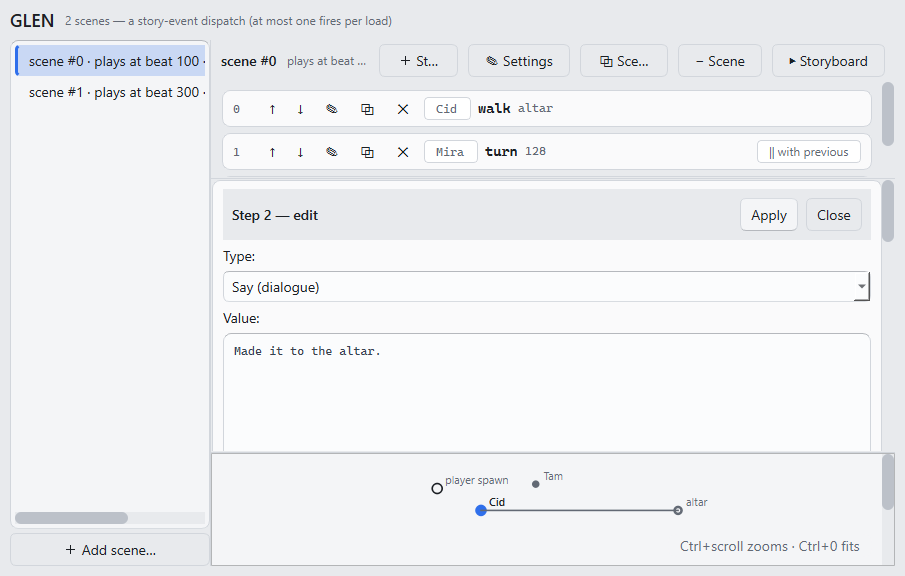
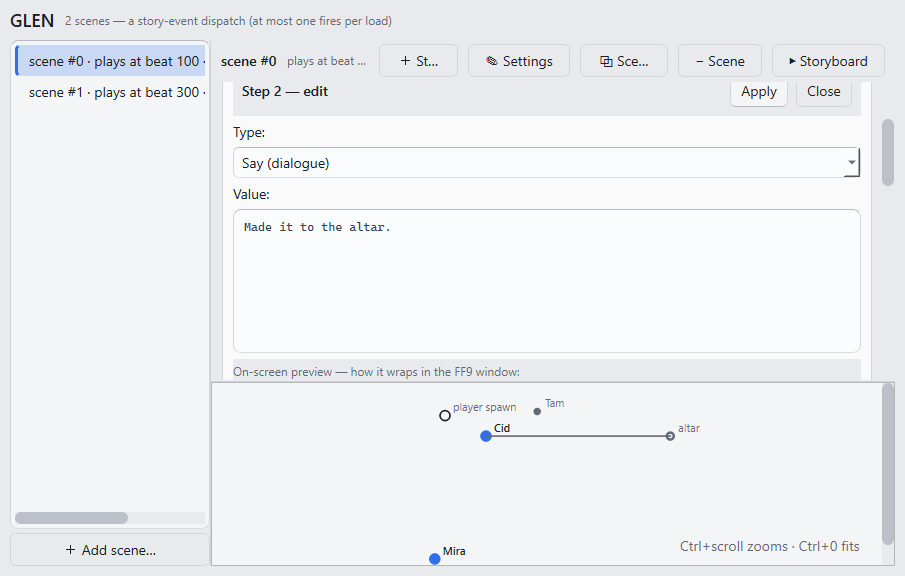
feat(cutscene-doc): THE ACCORDION -- the ladder is the one window (playtest feedback)
Mid-playtest feedback: settings + ladder + editor + stage stacked five bands and three
scrollbars in the center column. Now the ladder hosts THE accordion panel: the step editor
unfolds directly UNDER its row (and follows the typing point as Apply advances -- the
conversation stays visible around the line being written), the scene-settings card unfolds
above row 0, the two are mutually exclusive, and both scroll WITH the list -- one scrollbar.
The separate editor/settings bands and their wrapper scrolls are deleted; the vsplit is
ladder | canvas.

StepLadder gains set_inset/_lift_inset: a refill LIFTS the panel (hide-first, the
phantom-window law) instead of deleting it -- fenced by mutation, and the first cut of that
fence was VACUOUS until it delivered DeferredDelete (a deleteLater'd widget still answers
without the spin; the harness's own lesson, re-learned in miniature). Four accordion fences;
battery 174 green; figure re-baked from the gate lane, shots --check 20 exact.

diff --git a/ff9mapkit/ff9mapkit/workspace/cutscenedoc.py b/ff9mapkit/ff9mapkit/workspace/cutscenedoc.py
@@ -511,7 +511,30 @@ class StepLadder(QWidget):
         self._idx_chips = []                       # the storyboard's ▶ beat sweep writes these
         self._selected = None
         self._beat_marks = set()
+        self._inset = None                         # THE ACCORDION: one foreign panel unfolded
+        #                                            inside the ladder (the step editor under its
+        #                                            row / the settings above row 0). The ladder
+        #                                            HOSTS it, never owns it -- see set_inset.
         self.setAccessibleName("Cutscene steps")
+
+    # -- the accordion seam (playtest feedback: separate bands cluttered the column) --
+    def set_inset(self, widget, at=0):
+        """Unfold ONE host-owned panel inside the ladder at layout index ``at`` (row *i*'s
+        editor sits at ``i + 1``; the settings card at ``0``). The host re-insets after every
+        ``set_rows`` -- the ladder LIFTS the inset there instead of deleting it, because the
+        panel (the one StepEditor instance) must outlive every refill."""
+        self._lift_inset()
+        self._inset = widget
+        self._lay.insertWidget(max(0, min(at, self._lay.count() - 1)), widget)
+        widget.show()
+
+    def _lift_inset(self):
+        """Take the inset OUT without killing it. Hide FIRST, then reparent: a visible widget
+        reparented to None is a top-level OS window for an instant (the phantom-window law)."""
+        if self._inset is not None:
+            self._inset.hide()
+            self._inset.setParent(None)
+            self._inset = None
 
     def set_beat_marks(self, idxs):
         """Mark the steps in the storyboard's ACTIVE beat. Shape, not colour: ▶ on the
@@ -530,6 +553,7 @@ class StepLadder(QWidget):
     def set_rows(self, rows, selected=None):
         self._selected = selected
         self._idx_chips = []
+        self._lift_inset()                         # the accordion panel is LIFTED, never deleted
         while self._lay.count():
             w = self._lay.takeAt(0).widget()
             if w is not None:
@@ -758,8 +782,11 @@ class CutsceneDoc(QWidget):
         self.board_btn.toggled.connect(self._toggle_board)
         bh.addWidget(self.board_btn)
         cl.addWidget(bar)
-        # the scene-settings card (hidden until ✎ Settings): the extended CUTSCENE_SPEC through
-        # the shared form builder, Apply-committed (a per-keystroke checkpoint would spam undo)
+        # the scene-settings card -- THE ACCORDION (playtest feedback: a separate band per
+        # panel cluttered the column): it unfolds INSIDE the ladder above row 0, mutually
+        # exclusive with the step editor, and scrolls WITH the ladder (one scrollbar). Built
+        # here, parentless until _sync_insets seats it. Apply-committed (a per-keystroke
+        # checkpoint would spam undo).
         self.settings_card = widgets.card()
         sc_lay = QVBoxLayout(self.settings_card)
         sc_lay.setContentsMargins(10, 8, 10, 8)
@@ -775,23 +802,14 @@ class CutsceneDoc(QWidget):
         schw = QWidget()
         schw.setLayout(sc_head)
         sc_lay.addWidget(schw)
-        # the form SCROLLS inside a capped well: ten spec fields put a ~700px floor under the
-        # card, and a pane denied its height must scroll, never clip (the round-13 law)
-        sc_host = QWidget()
-        self._settings_host = QVBoxLayout(sc_host)
+        self._settings_host = QVBoxLayout()
         self._settings_host.setContentsMargins(0, 0, 0, 0)
-        self._settings_scroll = QScrollArea()
-        self._settings_scroll.setWidgetResizable(True)
-        self._settings_scroll.setFrameShape(QFrame.Shape.NoFrame)
-        self._settings_scroll.setWidget(sc_host)
-        self._settings_scroll.setMaximumHeight(int(340 * self._scale / 100))
-        sc_lay.addWidget(self._settings_scroll)
+        sc_lay.addLayout(self._settings_host)
         self.settings_note = widgets.caption("")
         self.settings_note.setWordWrap(True)
         sc_lay.addWidget(self.settings_note)
         self._settings_getters = None
         self.settings_card.hide()
-        cl.addWidget(self.settings_card)
         # the storyboard strip (hidden until ▶ Storyboard)
         self.board_bar = QWidget()
         sv = QVBoxLayout(self.board_bar)
@@ -831,31 +849,26 @@ class CutsceneDoc(QWidget):
                                 "dup": self._dup_step, "delete": self._del_step}
         self.ladder = StepLadder(self.pal, actions=self._ladder_actions,
                                  on_select=self._on_step_select)
-        lscroll = QScrollArea()
-        lscroll.setWidgetResizable(True)
-        lscroll.setWidget(self.ladder)             # h-bar as-needed: denied width must scroll,
-        lscroll.setFrameShape(QFrame.Shape.NoFrame)   # never clip (the round-13 law)
-        self._vsplit.addWidget(lscroll)
+        self._lscroll = QScrollArea()
+        self._lscroll.setWidgetResizable(True)
+        self._lscroll.setWidget(self.ladder)       # h-bar as-needed: denied width must scroll,
+        self._lscroll.setFrameShape(QFrame.Shape.NoFrame)   # never clip (the round-13 law)
+        self._vsplit.addWidget(self._lscroll)
+        # the step editor is the ladder's OTHER accordion panel: it unfolds under its row and
+        # scrolls with the list, so the conversation stays visible around the line being
+        # written. Parentless until _sync_insets seats it.
         self.editor = StepEditor(
             self.pal, on_apply=self._apply_step, on_close=self._close_editor,
             pick_anim=self._pick_anim_for_step, on_pick_stage=self._arm_stage_pick,
             wrap_width_fn=lambda: cutscenescan.wrap_width(self._merged()))
-        # the editor SCROLLS in its splitter slot: with the pacing drawer open it is taller
-        # than any slot the vsplit can honestly give it (snap-measured 1604px of minimum
-        # against an 850px window -- the round-13 clip, pre-empted)
-        self._editor_scroll = QScrollArea()
-        self._editor_scroll.setWidgetResizable(True)
-        self._editor_scroll.setFrameShape(QFrame.Shape.NoFrame)
-        self._editor_scroll.setWidget(self.editor)
-        self._editor_scroll.hide()
-        self._vsplit.addWidget(self._editor_scroll)
+        self.editor.hide()
         self.canvas = CutsceneStage(self.pal, scale=self._scale,
                                     on_move=self._on_stage_move,
                                     on_insert=self._on_stage_insert,
                                     on_delete=self._on_stage_delete)
         self._vsplit.addWidget(self.canvas)
         k = self._scale / 100
-        self._vsplit.setSizes([int(320 * k), 0, int(300 * k)])
+        self._vsplit.setSizes([int(340 * k), int(280 * k)])
         cl.addWidget(self._vsplit, 1)
         split.addWidget(center)
         split.setStretchFactor(1, 1)
@@ -921,7 +934,6 @@ class CutsceneDoc(QWidget):
         if hasattr(self, "canvas"):
             self.canvas.set_scale(pct)
             self.board_slider.setMinimumWidth(int(120 * pct / 100))
-            self._settings_scroll.setMaximumHeight(int(340 * pct / 100))
 
     def retheme(self, pal):
         self.pal = pal
@@ -1017,8 +1029,9 @@ class CutsceneDoc(QWidget):
         self.canvas.set_selected_step(self._selected_step)
         self.canvas.set_scene(cutscenescan.stage_model(raw, self._scene), refit=refit,
                               handles=handles)
-        if self.settings_card.isVisible():
-            self._fill_settings()                  # ops fired; the card reflects the write target
+        if self.settings_btn.isChecked():          # isChecked, not isVisible: visibility is a lie
+            self._fill_settings()                  # under a never-shown test window
+        self._sync_insets()
         problems = cutscenescan.dispatch_problems(raw) + cutscenescan.scene_problems(raw)
         if problems:
             self.problems_lbl.setText("\n".join(f"• {p}" for p in problems))
@@ -1046,10 +1059,24 @@ class CutsceneDoc(QWidget):
                              selected=self._selected_step)
         if self.board_btn.isChecked():
             self.ladder.set_beat_marks(self._beat_steps())
+        self._sync_insets()                        # set_rows lifted the accordion panel
         handles = self._stage_handles()
         self.canvas.set_edit(bool(handles))
         self.canvas.set_selected_step(self._selected_step)
         self.canvas.set_scene(cutscenescan.stage_model(raw, self._scene), handles=handles)
+
+    def _sync_insets(self):
+        """Seat THE accordion panel after any ladder refill: the settings card above row 0, or
+        the open step editor under its row (add mode: AT the landing row, so the panel follows
+        the typing point as Apply advances). At most one -- the modes are exclusive."""
+        # "open" is the TARGET state (scene set by open_step, cleared by _close_editor) --
+        # never visibility: the lift itself hides, and a never-shown test window lies anyway.
+        if self.settings_btn.isChecked():
+            self.ladder.set_inset(self.settings_card, at=0)
+        elif self.editor.scene is not None:
+            at = ((self.editor.step_i + 1) if self.editor.insert_at is None
+                  else self.editor.insert_at)
+            self.ladder.set_inset(self.editor, at=at)
 
     # -- edits (all through cutscenescan's pure ops; the shell checkpoints via on_edit) --
     def _after_edit(self, label):
@@ -1094,7 +1121,10 @@ class CutsceneDoc(QWidget):
     def _toggle_settings(self, on):
         self.settings_card.setVisible(on)
         if on:
+            self._close_editor()                   # the accordion holds ONE panel at a time
             self._fill_settings()
+        if self._raw is not None and self._stack.currentWidget() is self._content:
+            self._render()                         # seat / clear the inset
 
     def _fill_settings(self):
         while self._settings_host.count():
@@ -1145,32 +1175,40 @@ class CutsceneDoc(QWidget):
         st = self._steps()
         if not 0 <= i < len(st):
             return
+        if self.settings_btn.isChecked():
+            self.settings_btn.setChecked(False)    # the accordion holds ONE panel at a time
         self._selected_step = i
         self.editor.open_step(self._scene, i, st[i], self._cast())
-        self._editor_scroll.show()
-        self._open_editor_guard()
-        self._render()
+        self._render()                             # seats the editor under its row
+        self._ladder_guard()
+        self._reveal_editor()
 
     def _add_step(self):
         if self._raw is None:
             return
+        if self.settings_btn.isChecked():
+            self.settings_btn.setChecked(False)
         at = (self._selected_step + 1) if self._selected_step is not None else len(self._steps())
         self.editor.open_step(self._scene, None, {"say": ""}, self._cast(), insert_at=at)
-        self._editor_scroll.show()
-        self._open_editor_guard()
+        self._sync_insets()                        # no data changed -- just seat the panel
+        self._ladder_guard()
+        self._reveal_editor()
 
-    def _open_editor_guard(self):
-        s = self._vsplit.sizes()                   # opening must not crush the stage to a sliver
-        if s[1] < 120:                             # (the behavior editor's snap-caught guard):
-            e = max(150, min(340, self.editor.sizeHint().height()))   # the ladder yields first,
-            total = sum(s)                                            # the canvas stays usable
-            canvas = max(140, min(s[2], total - e - 160))
-            self._vsplit.setSizes([max(120, total - e - canvas), e, canvas])
+    def _ladder_guard(self):
+        """Opening a panel must leave the ladder pane USABLE: grow it from the canvas if the
+        split has been dragged to a sliver (canvas floor 140 -- the behavior guard's shape)."""
+        s = self._vsplit.sizes()
+        need = int(300 * self._scale / 100)
+        if s and s[0] < need:
+            total = sum(s)
+            canvas = max(140, total - need)
+            self._vsplit.setSizes([total - canvas, canvas])
+
+    def _reveal_editor(self):
+        self._lscroll.ensureWidgetVisible(self.editor, 0, 40)
 
     def _close_editor(self):
-        self.editor.hide()
-        if hasattr(self, "_editor_scroll"):
-            self._editor_scroll.hide()             # the scroll well must not linger as a blank band
+        self.editor.hide()                         # hidden takes no space; the next refill lifts it
         self.editor.scene = self.editor.step_i = self.editor.insert_at = None
         self._disarm_stage_pick()
 
@@ -1193,12 +1231,14 @@ class CutsceneDoc(QWidget):
             self._selected_step = at
             (self.editor.value_text.clear() if self.editor._is_text()
              else self.editor.value_line.clear())
+            self._after_edit(label)
+            self._reveal_editor()                  # the panel just advanced a row -- keep it in view
         else:
             i = self.editor.step_i
             label = cutscenescan.update_step(self._raw, self._scene, i, step,
                                              managed=STEP_EDITOR_KEYS)
             self._selected_step = i
-        self._after_edit(label)
+            self._after_edit(label)
 
     def _move_step(self, i, delta):
         st = self._steps()

diff --git a/ff9mapkit/tests/test_cutscenedoc.py b/ff9mapkit/tests/test_cutscenedoc.py
@@ -550,6 +550,56 @@ def test_a_warm_mesh_rejudges_without_touching_disk(doc, tmp_path, monkeypatch):
     assert doc._restage_timer.isActive()
 
 
+# ------------------------------------------------------------------ the accordion (declutter round)
+def test_the_accordion_unfolds_the_editor_under_its_row(doc, tmp_path):
+    """Playtest feedback: separate bands for list/settings/editor cluttered the column. The
+    editor now unfolds INSIDE the ladder, directly under the row it edits."""
+    _fed(doc, tmp_path)
+    doc._edit_step(1)
+    assert doc.editor.parent() is doc.ladder
+    assert doc.ladder._lay.indexOf(doc.editor) == 2          # row 1 + 1
+    doc._edit_step(0)
+    assert doc.ladder._lay.indexOf(doc.editor) == 1
+
+
+def test_the_add_panel_follows_the_typing_point(doc, tmp_path):
+    _fed(doc, tmp_path)
+    doc.rail.setCurrentRow(1)
+    doc._on_step_select(0)
+    doc._add_step()
+    assert doc.ladder._lay.indexOf(doc.editor) == 1          # AT the landing row
+    _apply_say(doc, "first")
+    assert doc.ladder._lay.indexOf(doc.editor) == 2          # ...and it advances with insert_at
+
+
+def test_set_rows_lifts_the_accordion_panel_instead_of_deleting_it(doc, tmp_path):
+    """(M) THE LIFT LAW: the ladder refills on every render; if a refill deleteLater'd the ONE
+    StepEditor instance, the next Apply would drive a dead widget. The fence must DELIVER
+    DeferredDelete (the harness's own lesson): without the spin, a deleteLater'd widget still
+    answers, and the first cut of this test stayed green under the exact mutation it fences."""
+    from PySide6.QtCore import QEvent
+    _fed(doc, tmp_path)
+    doc._edit_step(2)                                        # the say row
+    doc._render()                                            # a full refill cycle over the open panel
+    QApplication.instance().sendPostedEvents(None, QEvent.Type.DeferredDelete)
+    assert doc.editor.parent() is doc.ladder, "the refill must LIFT the editor, never delete it"
+    doc.editor.value_text.setPlainText("still editable after a refill")
+    doc._apply_step()
+    assert doc._steps()[2]["say"] == "still editable after a refill"
+
+
+def test_settings_and_the_editor_are_mutually_exclusive(doc, tmp_path):
+    _fed(doc, tmp_path)
+    doc._edit_step(2)
+    assert doc.editor.scene is not None
+    doc.settings_btn.setChecked(True)
+    assert doc.editor.scene is None, "opening settings closes the step editor"
+    assert doc.ladder._lay.indexOf(doc.settings_card) == 0, "settings seats above row 0"
+    doc._edit_step(2)
+    assert not doc.settings_btn.isChecked(), "opening a step closes settings"
+    assert doc.ladder._lay.indexOf(doc.editor) == 3
+
+
 # ------------------------------------------------------------------ shell: undo + one-writer
 def test_a_doc_edit_lands_by_reference_dirty_and_one_undo_step(win, tmp_path):
     p = make_cutscene_field(tmp_path)
